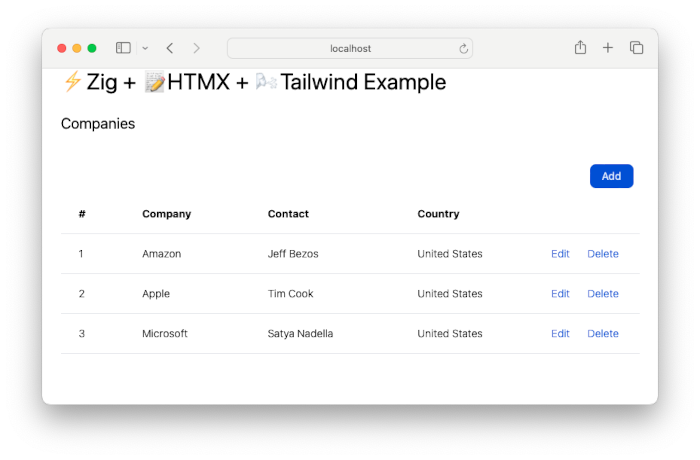
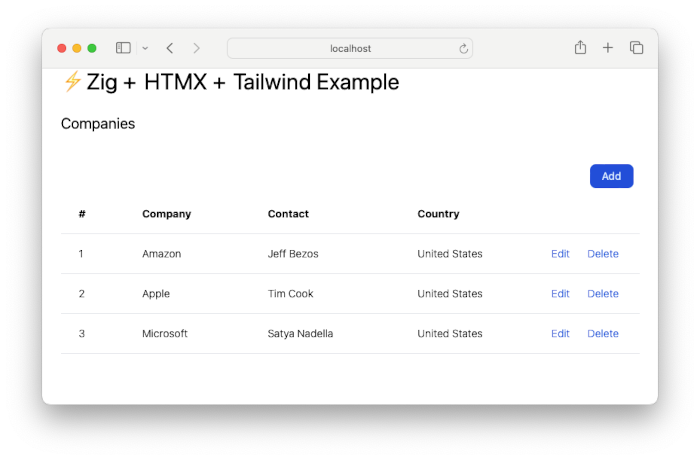
rev for 0.14.0, bump deps

Changed region(s): [[0.21, 0.1522, 0.63, 0.213], [0.84, 0.3348, 0.93, 0.4261], [0.12, 0.0913, 0.15, 0.1217]]

diff --git a/README.md b/README.md
@@ -1,7 +1,7 @@
 # zig-htmx-tailwind-example
-[![zig version](https://img.shields.io/badge/0.13.0-orange?style=flat&logo=zig&label=Zig&color=%23eba742)](https://ziglang.org/download/)
+[![zig version](https://img.shields.io/badge/0.14.0-orange?style=flat&logo=zig&label=Zig&color=%23eba742)](https://ziglang.org/download/)
 [![reference Zig](https://img.shields.io/badge/deps%20-2-orange?color=%23eba742)](https://github.com/dgv/zig-htmx-tailwind-example/blob/main/build.zig.zon)
-[![htmx version](https://img.shields.io/badge/2.0.2-blue?style=flat&logo=htmx&label=htmx&color=%233366cc)](https://github.com/bigskysoftware/htmx/releases)
+[![htmx version](https://img.shields.io/badge/2.0.4-blue?style=flat&logo=htmx&label=htmx&color=%233366cc)](https://github.com/bigskysoftware/htmx/releases)
 [![build](https://github.com/dgv/zig-htmx-tailwind-example/actions/workflows/build.yml/badge.svg)](https://github.com/dgv/zig-htmx-tailwind-example/actions/workflows/build.yml)
 [![License: MIT](https://img.shields.io/badge/license-MIT-yellow.svg)](https://opensource.org/licenses/MIT)
 
